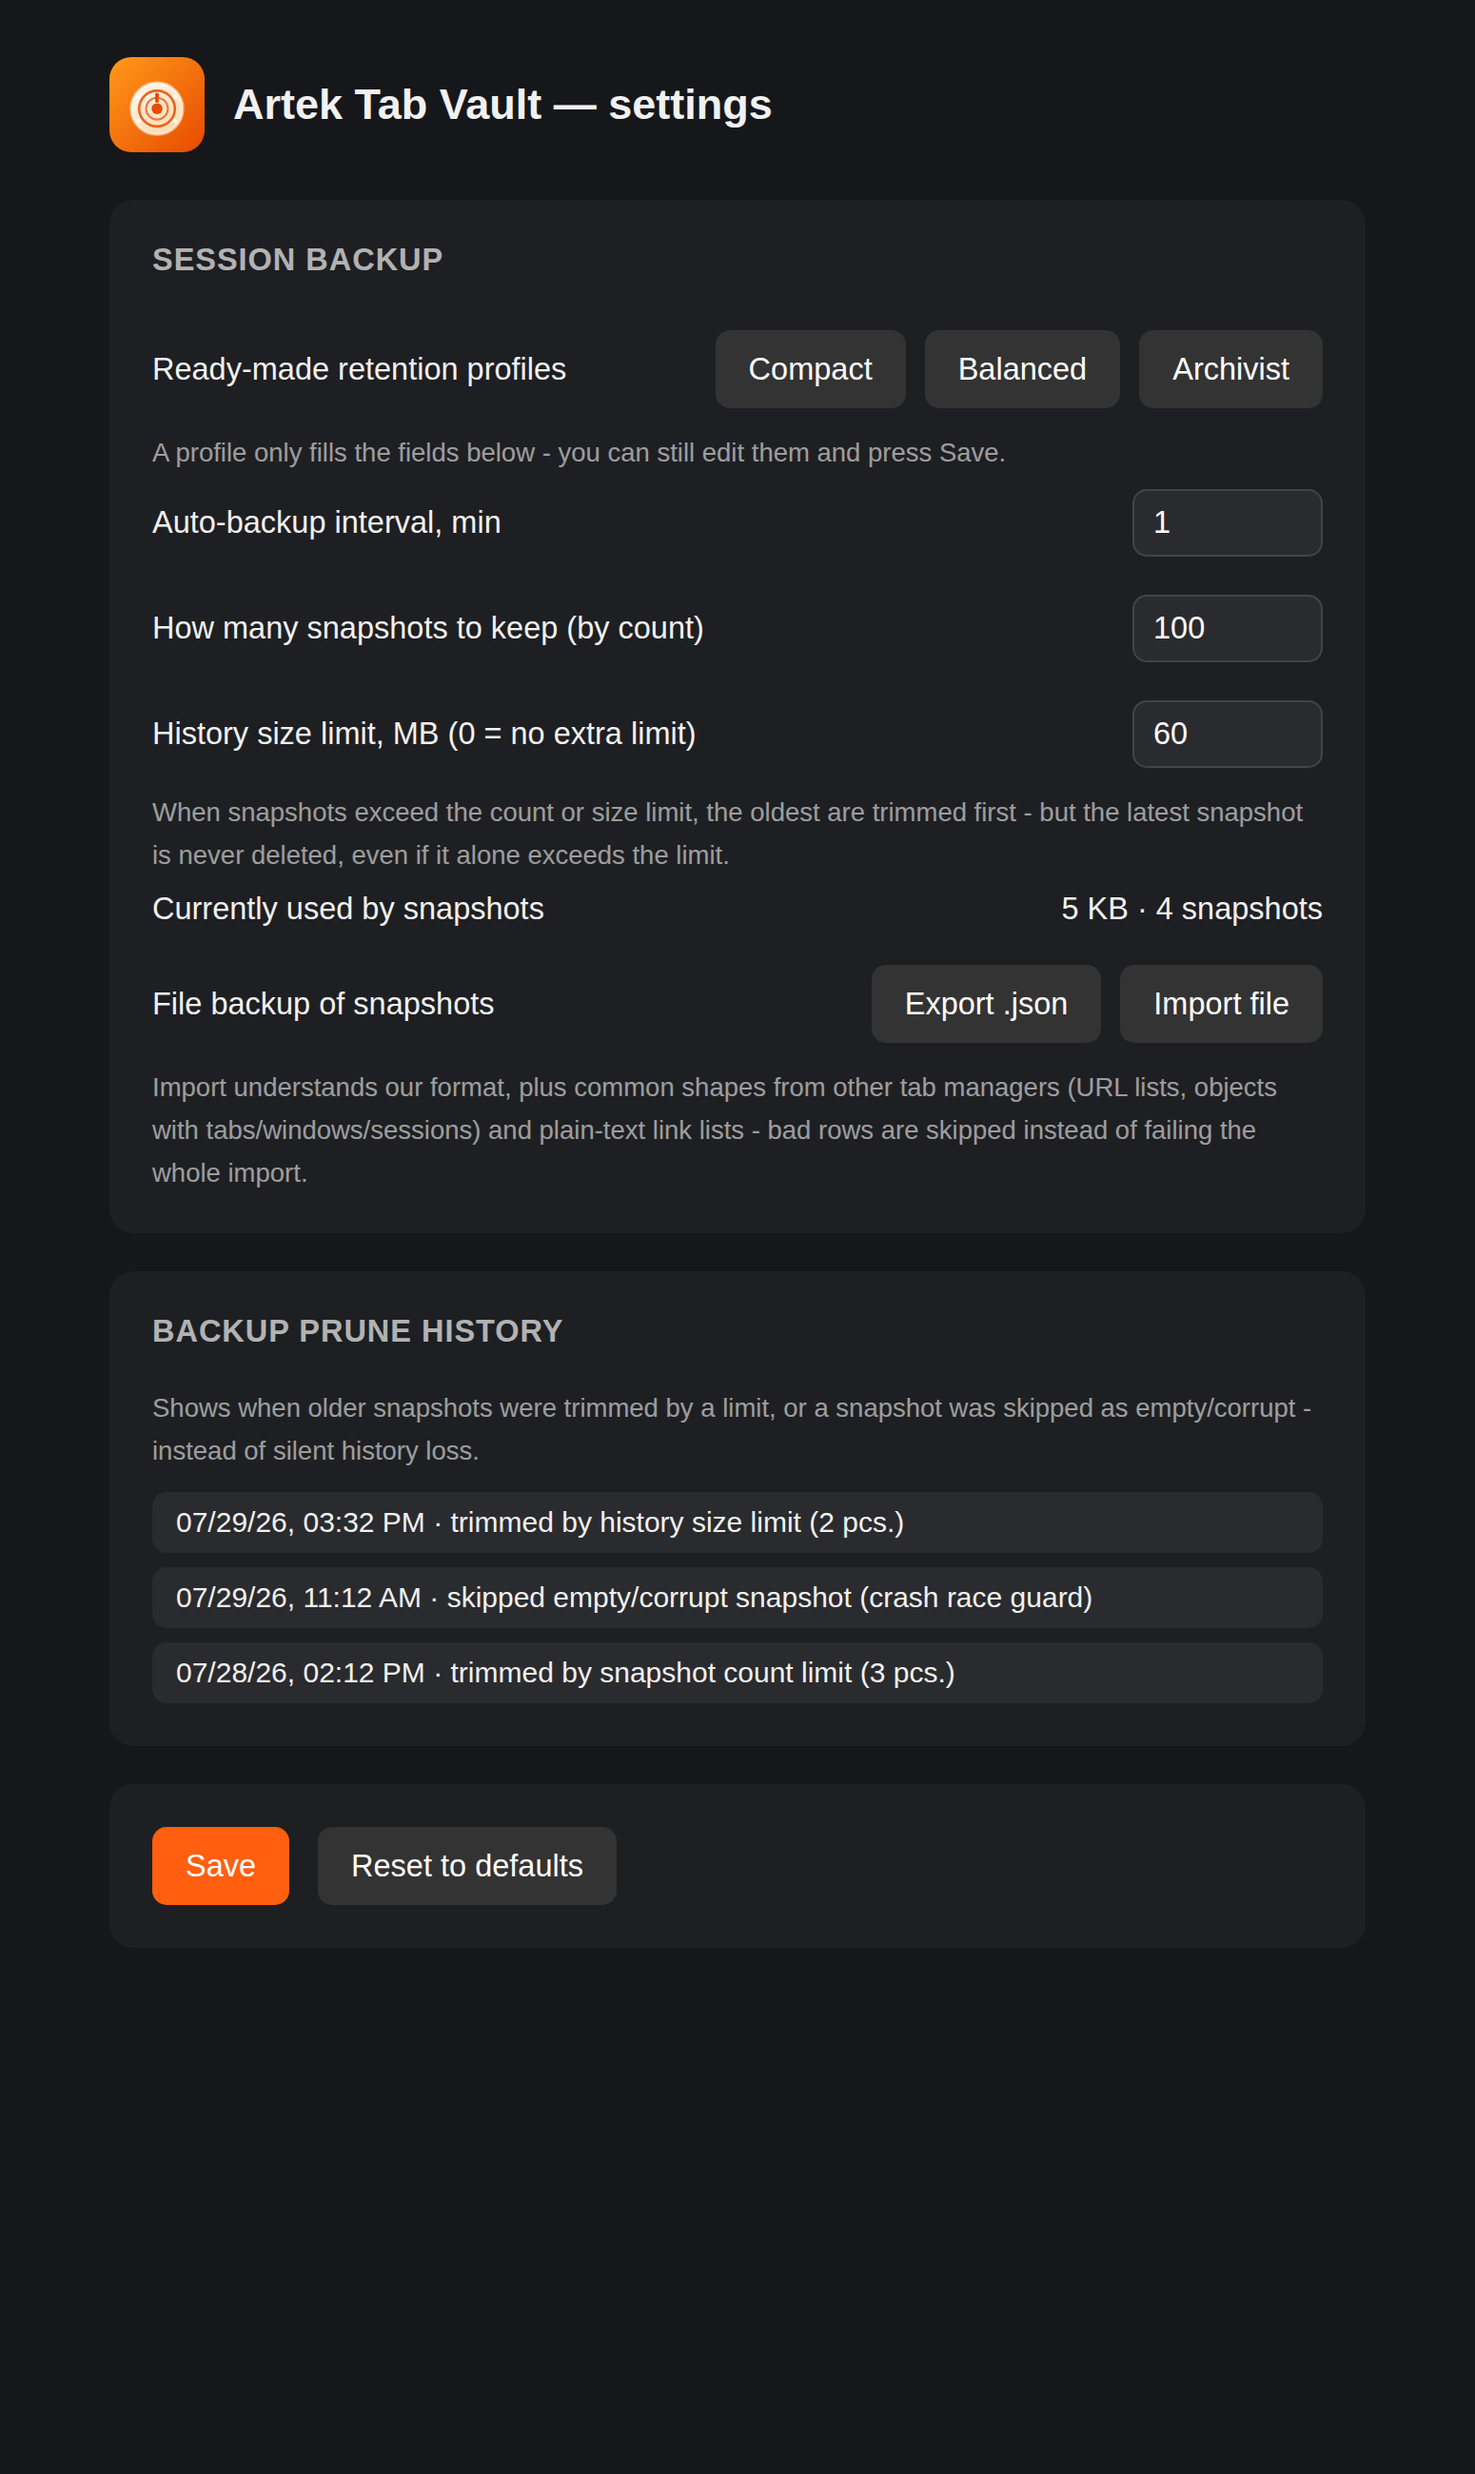
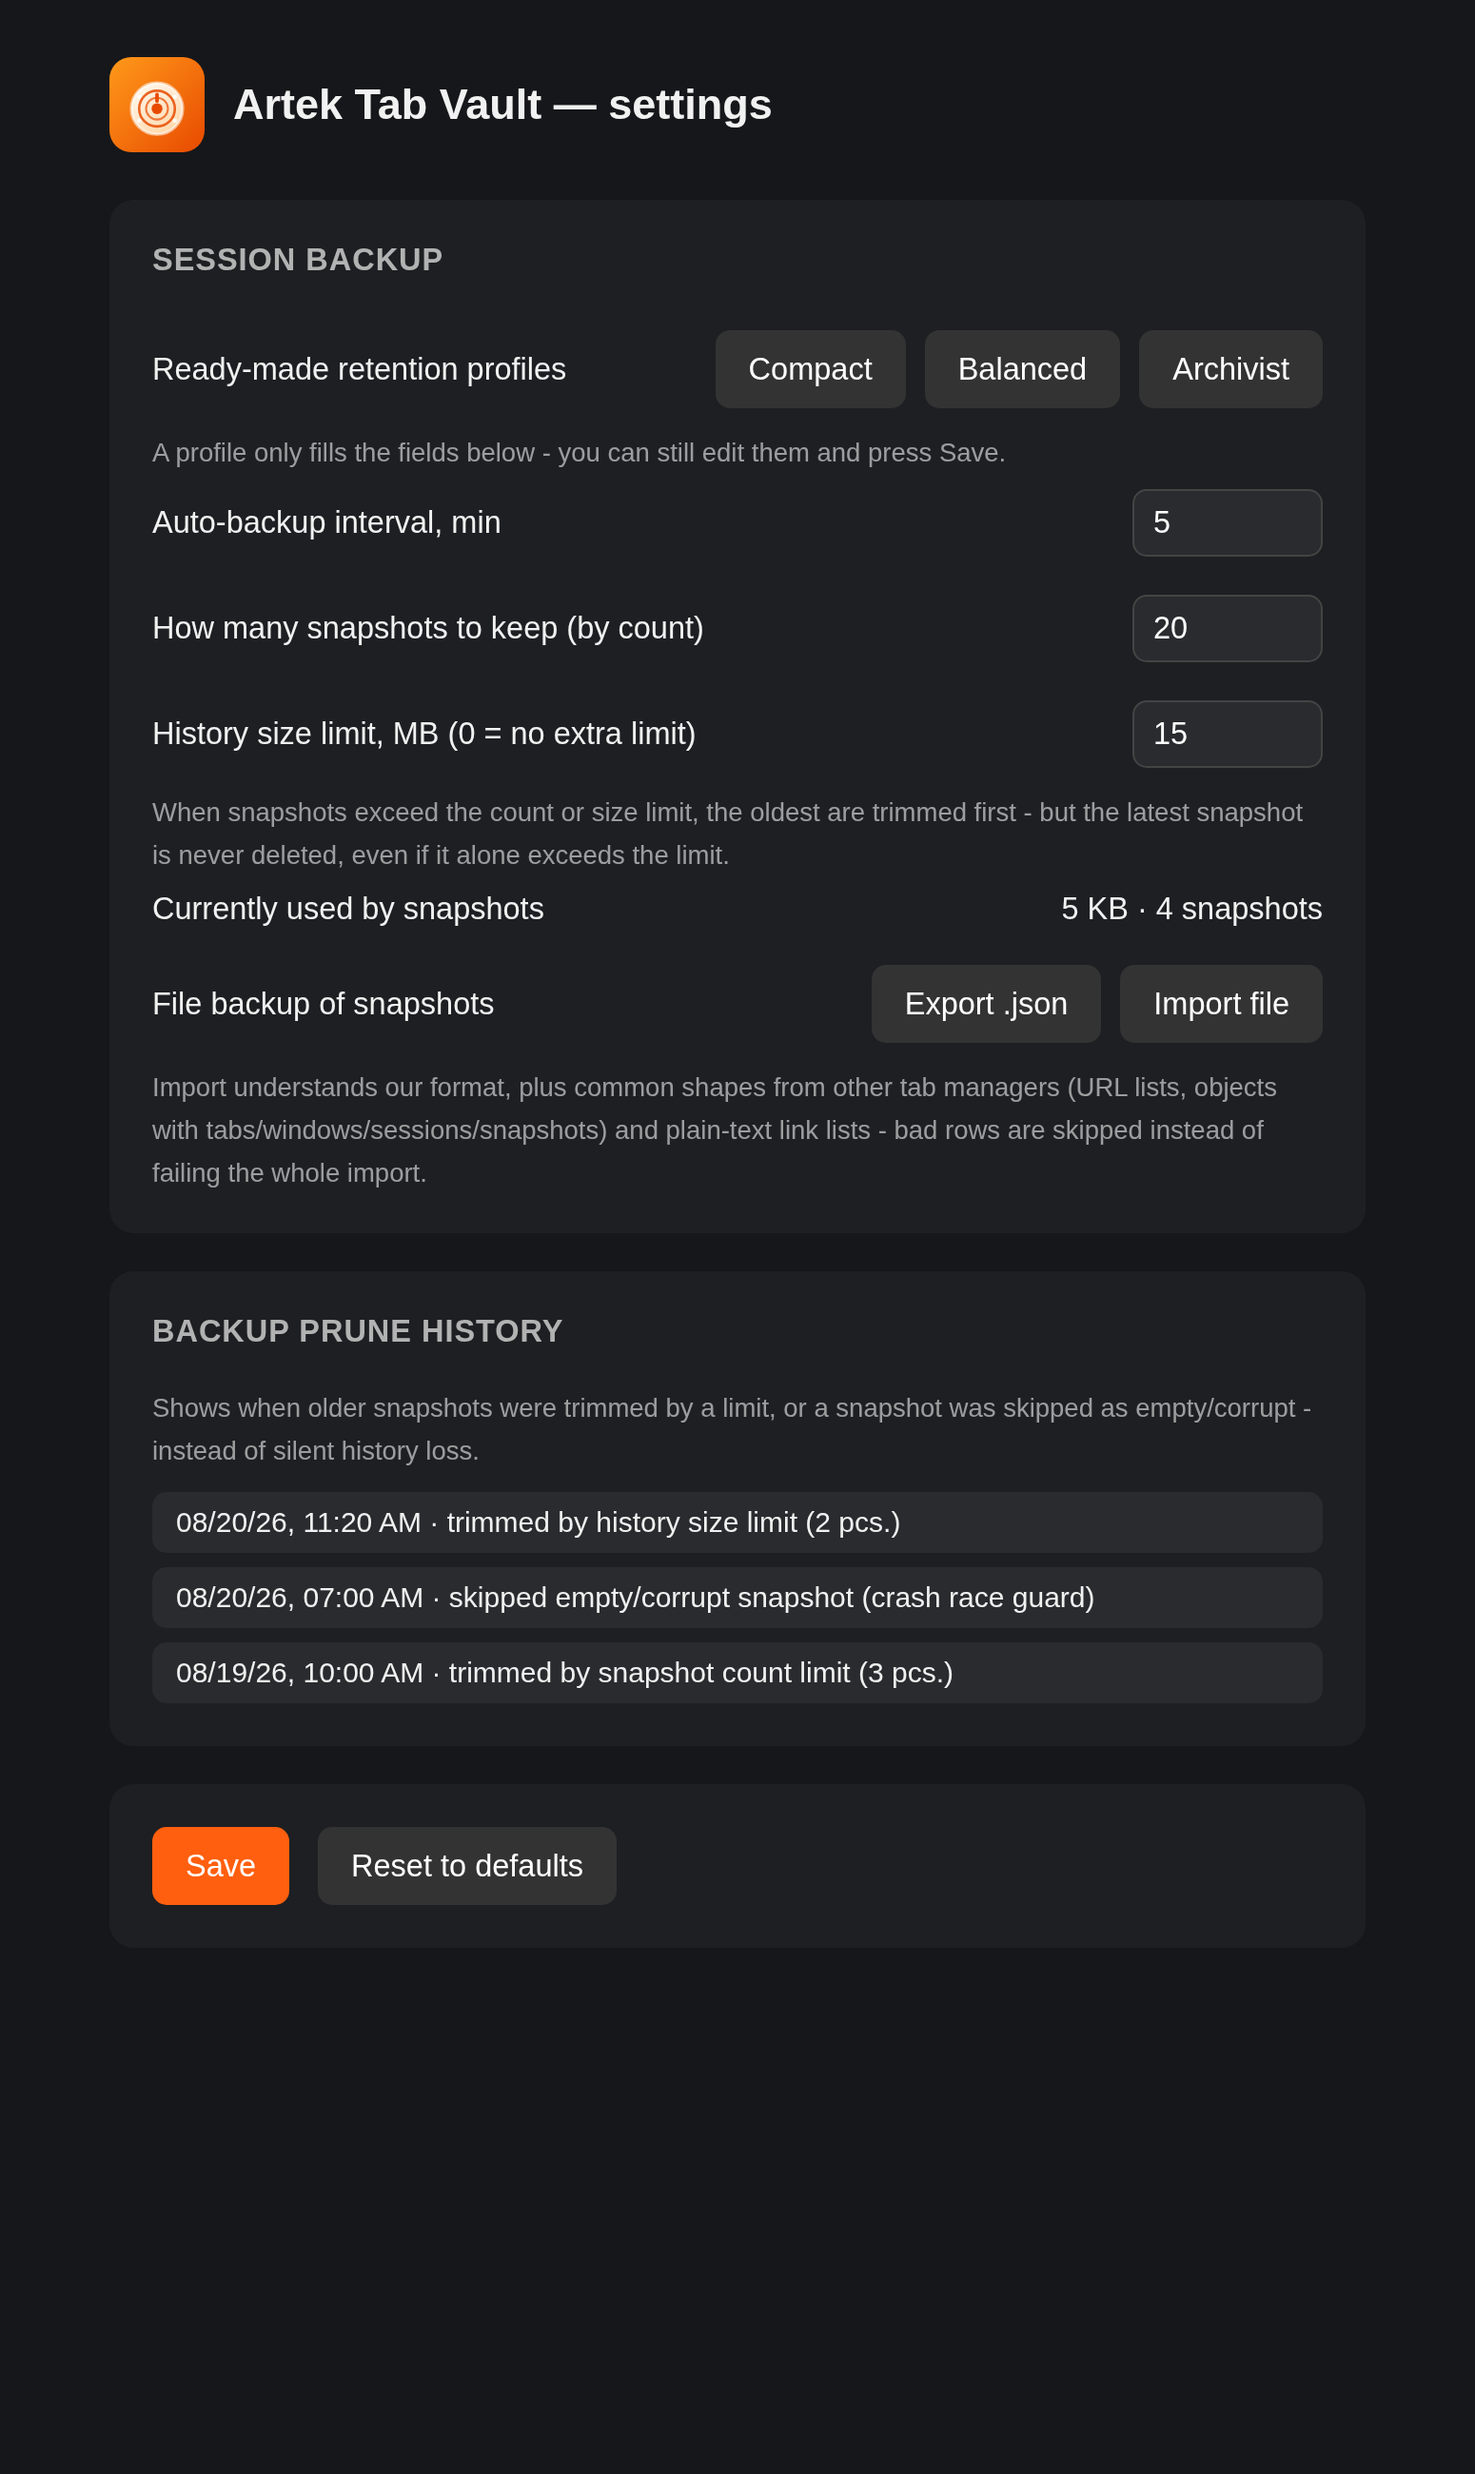
Refresh store screenshots so AMO and README match Balanced 0.3.2.
The mock still used Archivist 1-minute defaults, so listing shot 3 looked outdated.

diff --git a/tests/workflow-contracts.test.js b/tests/workflow-contracts.test.js
@@ -7,6 +7,8 @@ const {
   assertCiHasFirefoxJob,
   assertReleaseWorkflow,
   e2eMatchedByJest,
+  rejectMissingListingScreenshots,
+  LISTING_SCREENSHOT_PATHS,
 } = require('./helpers/workflow-contracts');
 
 const ROOT = path.join(__dirname, '..');
@@ -67,4 +69,32 @@ describe('workflow contracts', () => {
     expect(() => rejectBadWorkflowShape('on:\n  pull_request_target:\njobs:\n  test:\n\n  firefox:\n')).toThrow(/pull_request_target/);
     expect(() => rejectBadWorkflowShape('')).toThrow(/non-empty/);
   });
+
+  test('screenshot-mock.js uses Balanced defaults (backupIntervalMinutes: 5, not 1) (#48)', () => {
+    const mock = read('scripts/screenshot-mock.js');
+    expect(mock).toMatch(/backupIntervalMinutes:\s*5\b/);
+    expect(mock).not.toMatch(/backupIntervalMinutes:\s*1\b/);
+    expect(mock).toMatch(/idleMinutes:\s*15\b/);
+    expect(mock).toMatch(/maxSnapshots:\s*20\b/);
+    expect(mock).toMatch(/maxBackupMB:\s*15\b/);
+  });
+
+  test('listing PNG files exist and are non-trivial (size > 10KB) (#48)', () => {
+    for (const rel of LISTING_SCREENSHOT_PATHS) {
+      const full = path.join(ROOT, rel);
+      expect(fs.existsSync(full)).toBe(true);
+      expect(fs.statSync(full).size).toBeGreaterThan(10_000);
+    }
+  });
+
+  test('README embeds listing/screenshot-01-popup.png, screenshot-02-options.png, screenshot-03-backup.png (#48)', () => {
+    const readme = read('README.md');
+    expect(rejectMissingListingScreenshots(readme)).toBe(true);
+  });
+
+  test('rejectMissingListingScreenshots rejects a README that omits listing image paths (#48)', () => {
+    expect(() => rejectMissingListingScreenshots('')).toThrow(/non-empty/);
+    expect(() => rejectMissingListingScreenshots('no shots here')).toThrow(/listing\/screenshot-01-popup\.png/);
+  });
+
 });

diff --git a/tests/helpers/workflow-contracts.js b/tests/helpers/workflow-contracts.js
@@ -57,9 +57,29 @@ function e2eMatchedByJest(testMatch, e2eRelPath) {
   });
 }
 
+const LISTING_SCREENSHOT_PATHS = [
+  'listing/screenshot-01-popup.png',
+  'listing/screenshot-02-options.png',
+  'listing/screenshot-03-backup.png',
+];
+
+function rejectMissingListingScreenshots(readme) {
+  if (typeof readme !== 'string' || !readme.trim()) {
+    throw new Error('README must be a non-empty string');
+  }
+  for (const rel of LISTING_SCREENSHOT_PATHS) {
+    if (!readme.includes(rel)) {
+      throw new Error(`README must embed ${rel}`);
+    }
+  }
+  return true;
+}
+
 module.exports = {
   rejectBadWorkflowShape,
   assertCiHasFirefoxJob,
   assertReleaseWorkflow,
   e2eMatchedByJest,
+  rejectMissingListingScreenshots,
+  LISTING_SCREENSHOT_PATHS,
 };

diff --git a/scripts/screenshot-mock.js b/scripts/screenshot-mock.js
@@ -11,14 +11,14 @@
  * numbers chosen to flatter the extension.
  */
 
-const NOW = Date.parse('2026-07-29T14:12:00Z');
+const NOW = Date.parse('2026-08-20T12:00:00Z');
 
 const SETTINGS = {
   guardianEnabled: true,
-  idleMinutes: 30,
-  backupIntervalMinutes: 1,
-  maxSnapshots: 100,
-  maxBackupMB: 60,
+  idleMinutes: 15,
+  backupIntervalMinutes: 5,
+  maxSnapshots: 20,
+  maxBackupMB: 15,
   neverDiscardDomains: ['mail.google.com', 'github.com', 'figma.com'],
   smartTabActivation: true,
   protectUnsavedForms: true,

diff --git a/store-assets/AMO-PRODUCT-PAGE.md b/store-assets/AMO-PRODUCT-PAGE.md
@@ -88,7 +88,7 @@ Three ready to upload, in this order, from `screenshots/`:
 |------|-----------------|-----------------|
 | `01-popup.png` (850×1960) | Popup: tab counts, guardian controls, session snapshots, and per-tab active/loaded/discarded state | Попап: счётчики вкладок, управление guardian, снимки сессий и состояние каждой вкладки |
 | `02-guardian-settings.png` (1500×1700) | Guardian settings: idle threshold, unsaved-form protection, discarded-tab title marker, domain whitelist | Настройки guardian: порог простоя, защита форм, метка в заголовке, белый список доменов |
-| `03-backup-retention.png` (1500×2450) | Backup retention: interval, count and size limits with presets, and a visible log of every trim | Хранение бэкапов: интервал, лимиты по количеству и размеру с профилями, журнал обрезки |
+| `03-backup-retention.png` (1500×2450) | Backup retention: Balanced 5 min interval, count and size limits with presets, and a visible log of every trim | Хранение бэкапов: интервал, лимиты по количеству и размеру с профилями, журнал обрезки |
 
 Regenerate them with `npm run screenshots` after any UI change, so the store
 never shows a stale interface.

diff --git a/README.md b/README.md
@@ -17,6 +17,20 @@ Firefox extension for two common pain points:
 - Media protection: known media hosts and in-page video/audio that is playing or paused with progress. An empty never-played video is not protected.
 - Localized UI: English, Russian, Kazakh, Ukrainian, Belarusian, Serbian.
 
+## Screenshots
+
+Popup: open/discarded counts, snapshots, restore-into-current-window.
+
+![Popup](listing/screenshot-01-popup.png)
+
+Guardian settings.
+
+![Guardian settings](listing/screenshot-02-options.png)
+
+Session backup with Balanced interval (5 min).
+
+![Session backup](listing/screenshot-03-backup.png)
+
 ## Layout
 
 ```

diff --git a/listing/AMO-FILL.md b/listing/AMO-FILL.md
@@ -81,7 +81,7 @@ Captions, en-US:
 
 1. Popup: session snapshots, discard controls, and per-tab active/loaded/discarded state.
 2. Settings: Guardian options, unsaved-form protection, title marker, whitelist.
-3. Backup retention presets, size limits, export/import, prune history.
+3. Backup retention presets (Balanced default: 5 min interval), size limits, export/import, prune history.
 
 ru-RU captions stay in Russian (they are store-listing copy, not repo docs).
 

diff --git a/CHANGELOG.md b/CHANGELOG.md
@@ -4,6 +4,9 @@ All notable user-facing changes to Artek Tab Vault are documented here, followin
 
 ## [Unreleased]
 
+### Changed
+- Store screenshots and README refreshed for the current 0.3.2 UI (Balanced defaults). No version bump (#48).
+
 ## [0.3.2] - 2026-08-20
 
 ### Added
